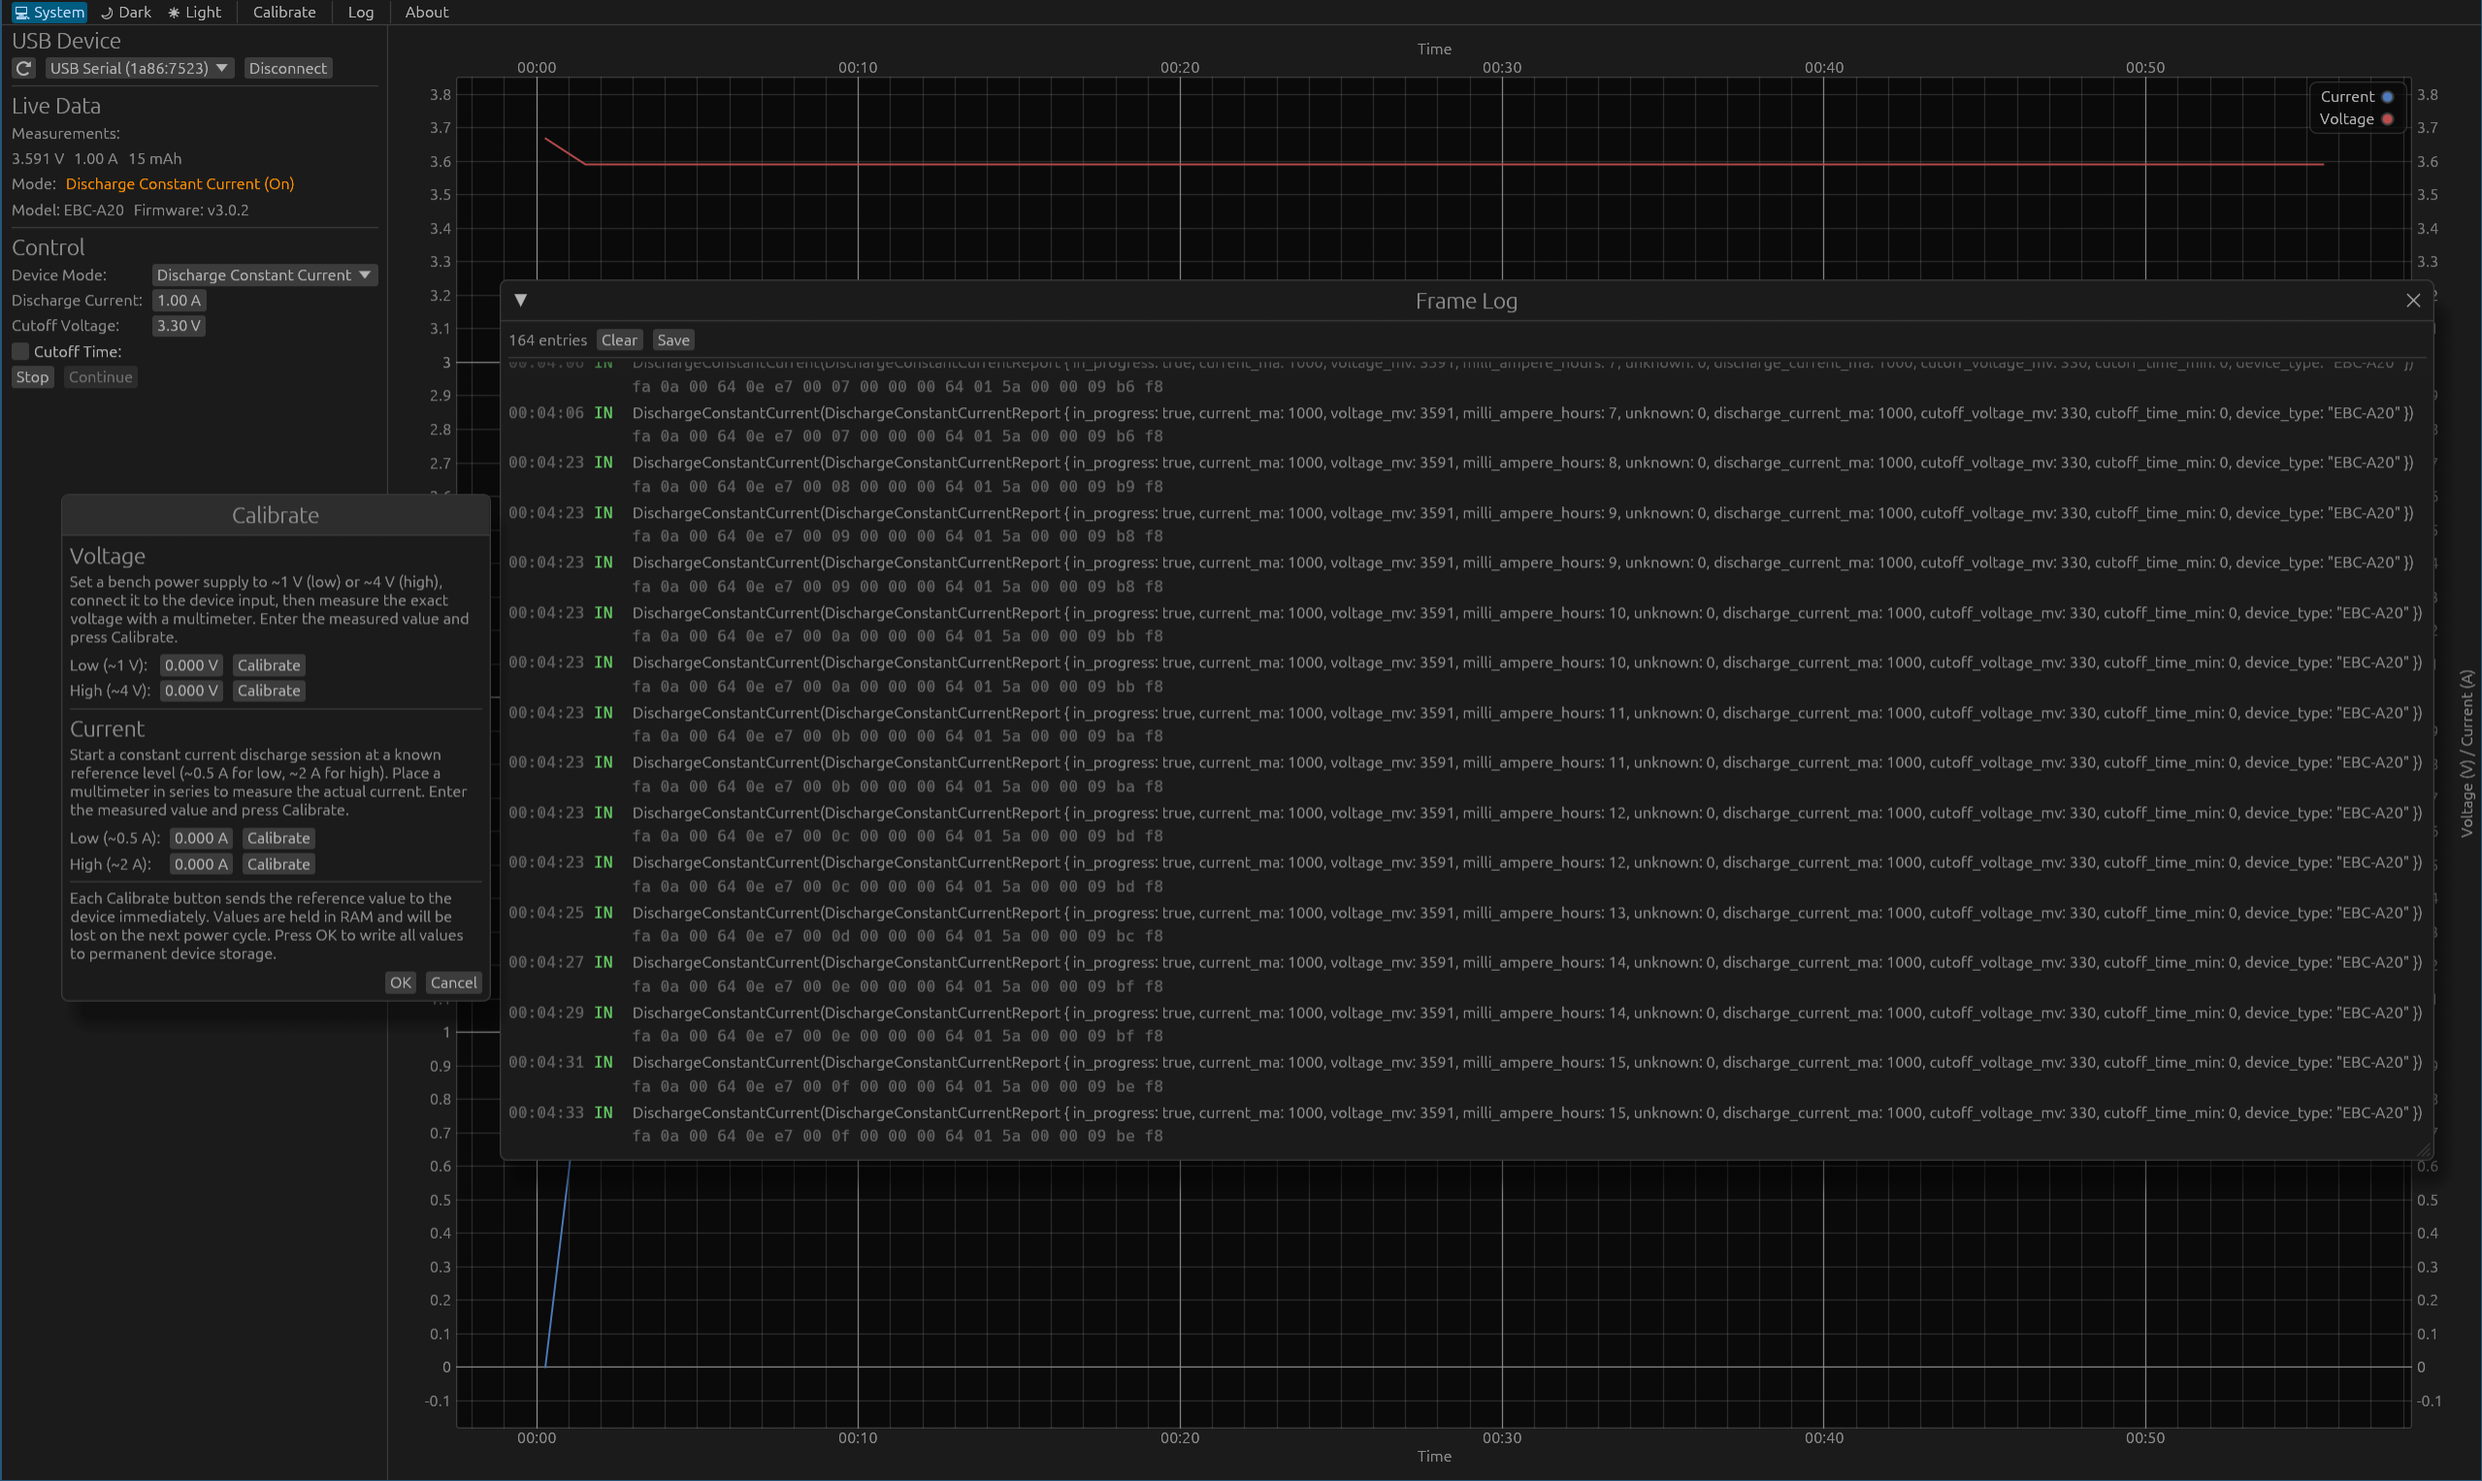
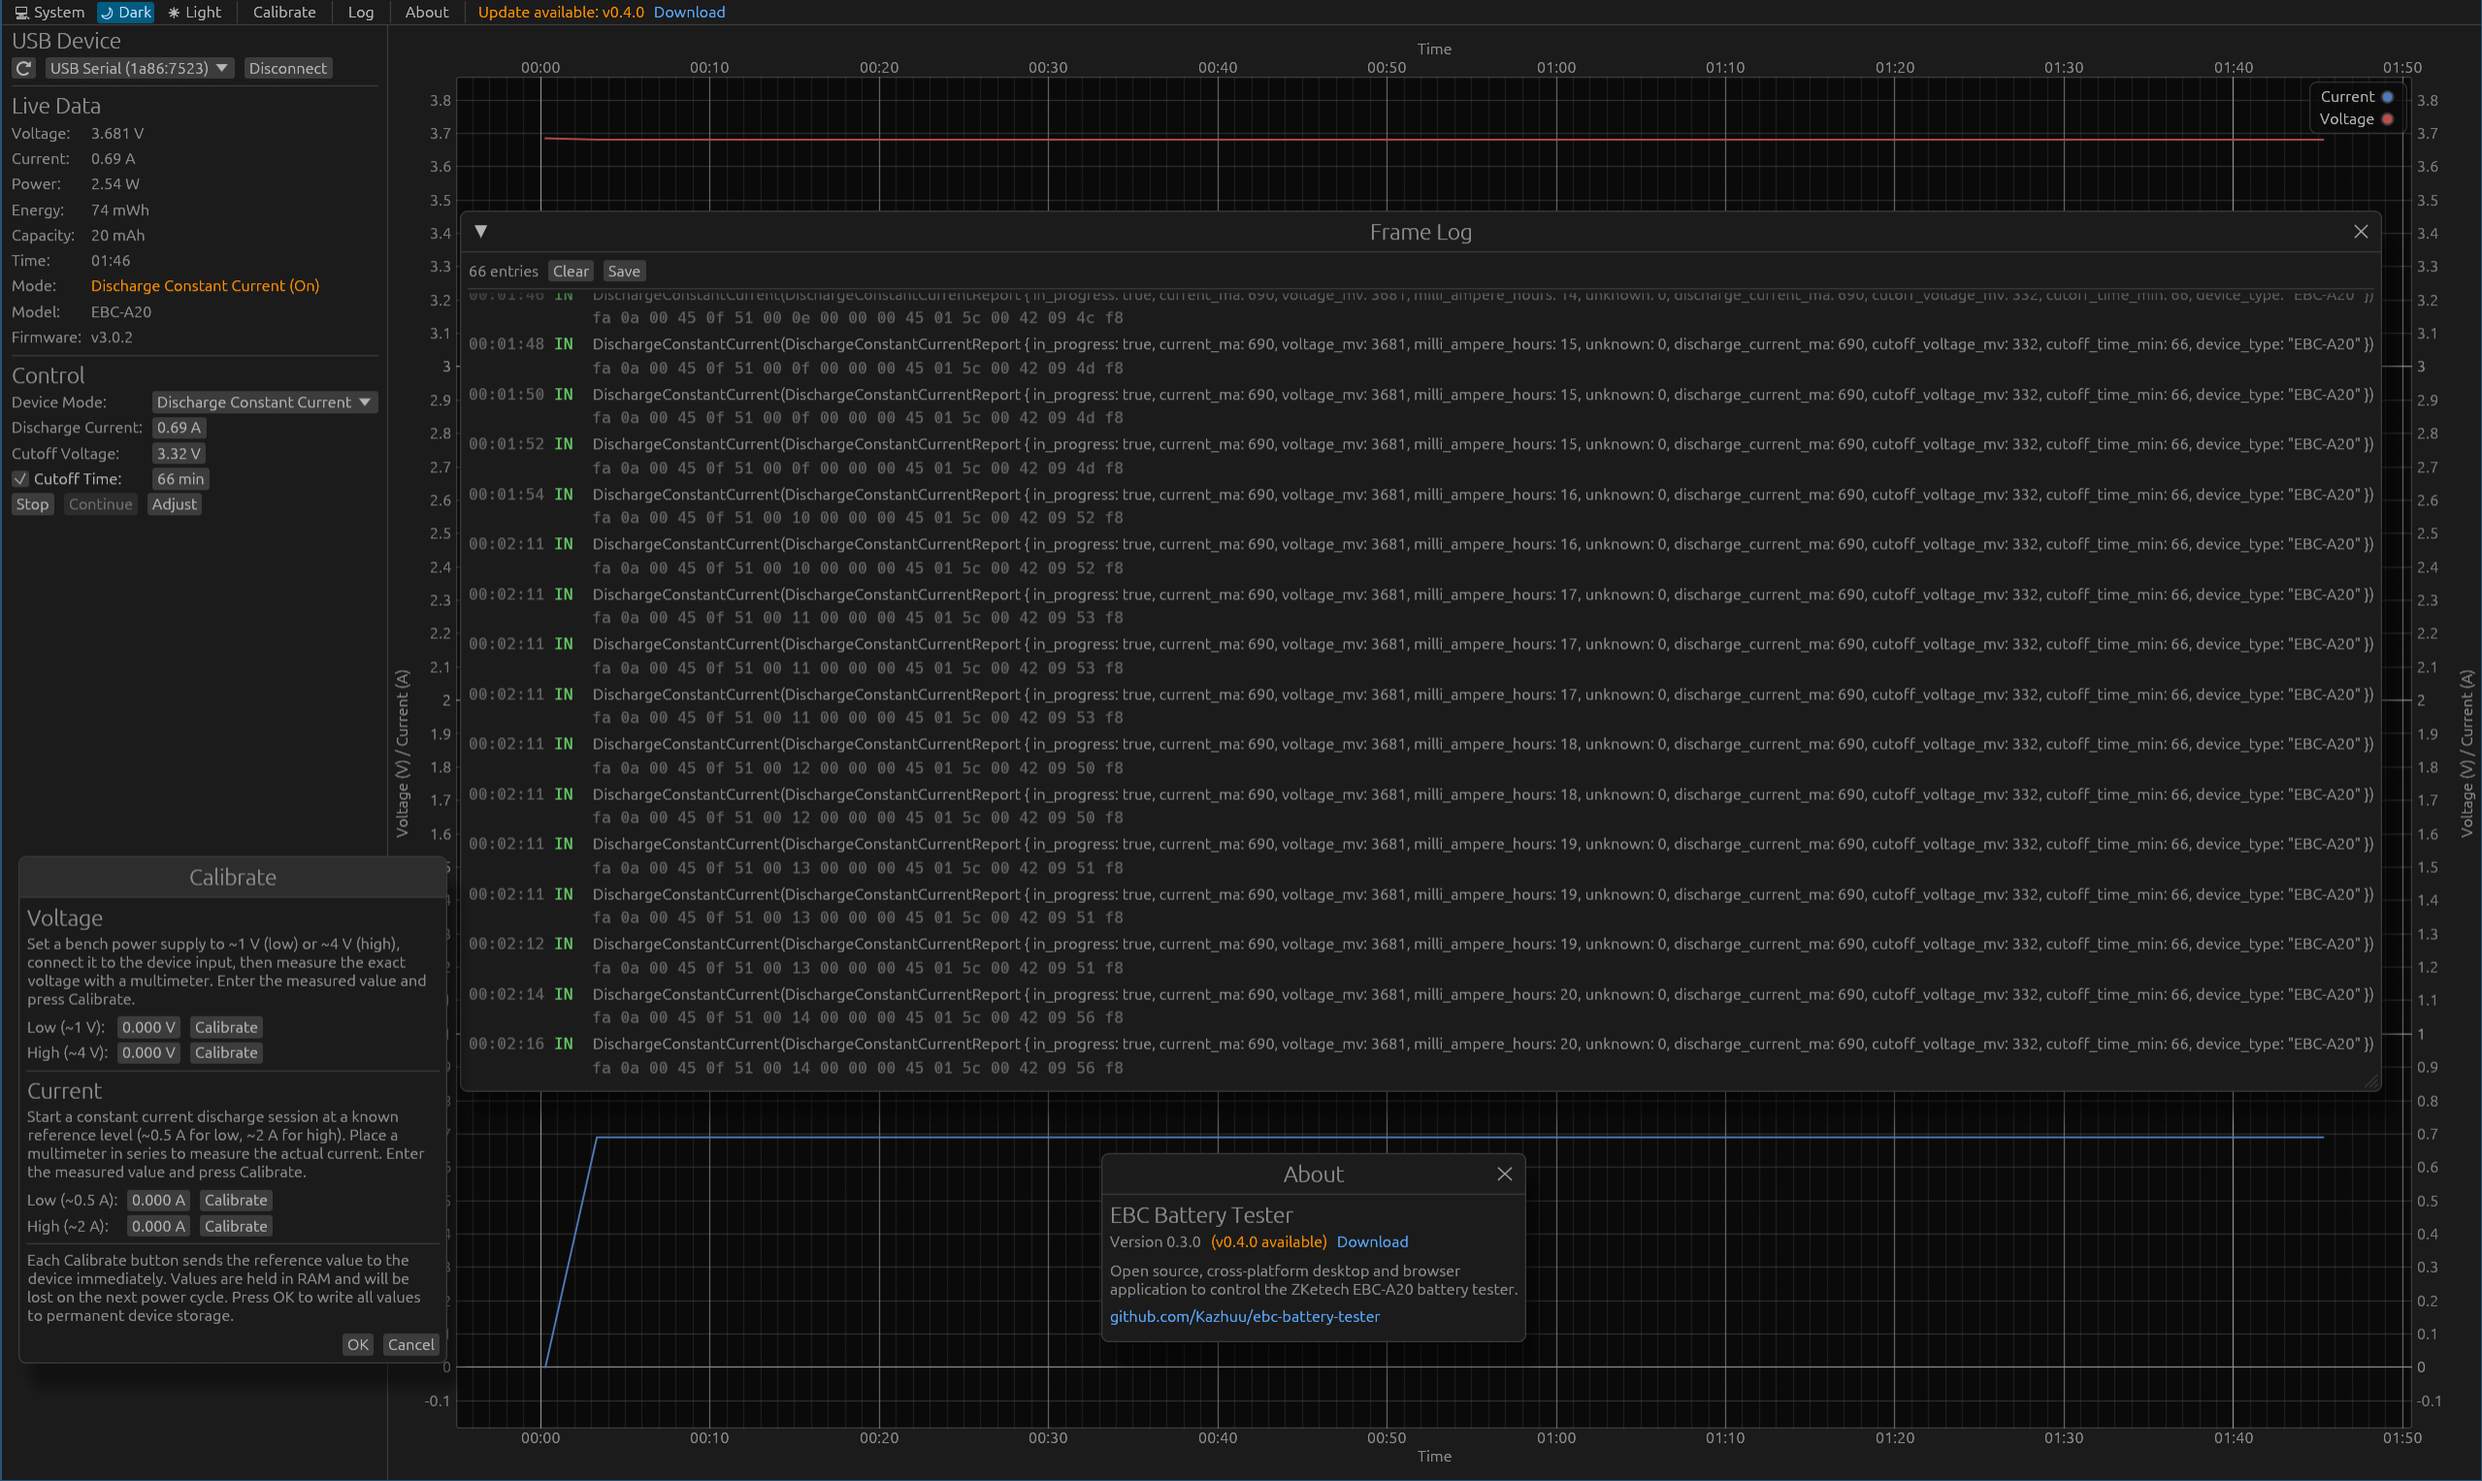
update app image and add a version check and inform user if newer version is available

diff --git a/src/app.rs b/src/app.rs
@@ -79,6 +79,12 @@ pub struct MainApp {
     mode_start_time: f64,
     #[serde(skip)]
     mode_accumulated_secs: f64,
+    #[cfg(not(target_arch = "wasm32"))]
+    #[serde(skip)]
+    update_check_state: crate::update_check::UpdateCheckState,
+    #[cfg(not(target_arch = "wasm32"))]
+    #[serde(skip)]
+    update_check_rx: UnboundedReceiver<crate::update_check::UpdateCheckState>,
 }
 
 impl Default for MainApp {
@@ -119,6 +125,10 @@ impl Default for MainApp {
             last_timer_sync_min: 0,
             mode_start_time: 0.0,
             mode_accumulated_secs: 0.0,
+            #[cfg(not(target_arch = "wasm32"))]
+            update_check_state: crate::update_check::UpdateCheckState::Checking,
+            #[cfg(not(target_arch = "wasm32"))]
+            update_check_rx: mpsc::unbounded().1,
         }
     }
 }
@@ -141,6 +151,12 @@ impl MainApp {
         app.cmd_tx = cmd_tx;
         app.event_rx = event_rx;
         app.event_tx = event_tx;
+        #[cfg(not(target_arch = "wasm32"))]
+        {
+            let (update_tx, update_rx) = mpsc::unbounded();
+            crate::update_check::spawn_update_check(cc.egui_ctx.clone(), update_tx);
+            app.update_check_rx = update_rx;
+        }
         app
     }
 
@@ -263,6 +279,10 @@ impl MainApp {
     }
 
     fn consume_events(&mut self, ctx: &egui::Context) {
+        #[cfg(not(target_arch = "wasm32"))]
+        while let Ok(state) = self.update_check_rx.try_recv() {
+            self.update_check_state = state;
+        }
         while let Ok(event) = self.event_rx.try_recv() {
             match event {
                 DeviceEvent::StatusChanged(status) => {
@@ -863,7 +883,32 @@ impl MainApp {
                 .resizable(false)
                 .show(ui.ctx(), |ui| {
                     ui.heading("EBC Battery Tester");
-                    ui.label(format!("Version {}", env!("CARGO_PKG_VERSION")));
+                    ui.horizontal(|ui| {
+                        ui.label(format!("Version {}", env!("CARGO_PKG_VERSION")));
+                        #[cfg(not(target_arch = "wasm32"))]
+                        {
+                            match &self.update_check_state {
+                                crate::update_check::UpdateCheckState::Checking => {
+                                    ui.spinner();
+                                    ui.weak("checking...");
+                                }
+                                crate::update_check::UpdateCheckState::UpToDate => {
+                                    ui.label("(up to date)");
+                                }
+                                crate::update_check::UpdateCheckState::UpdateAvailable(tag) => {
+                                    ui.colored_label(
+                                        ui.visuals().warn_fg_color,
+                                        format!("({tag} available)"),
+                                    );
+                                    ui.hyperlink_to(
+                                        "Download",
+                                        crate::update_check::RELEASES_PAGE_URL,
+                                    );
+                                }
+                                crate::update_check::UpdateCheckState::Failed => {}
+                            }
+                        }
+                    });
                     ui.add_space(4.0);
                     ui.label(
                         "Open source, cross-platform desktop and browser application to \
@@ -1103,6 +1148,29 @@ impl eframe::App for MainApp {
                 ui.separator();
                 if ui.button("About").clicked() {
                     self.open_about_window = true;
+                }
+                #[cfg(not(target_arch = "wasm32"))]
+                {
+                    match &self.update_check_state {
+                        crate::update_check::UpdateCheckState::Checking => {
+                            ui.separator();
+                            ui.spinner();
+                            ui.weak("Checking for updates...");
+                        }
+                        crate::update_check::UpdateCheckState::UpToDate => {
+                            ui.separator();
+                            ui.label(format!("v{} (up to date)", env!("CARGO_PKG_VERSION")));
+                        }
+                        crate::update_check::UpdateCheckState::UpdateAvailable(tag) => {
+                            ui.separator();
+                            ui.colored_label(
+                                ui.visuals().warn_fg_color,
+                                format!("Update available: {tag}"),
+                            );
+                            ui.hyperlink_to("Download", crate::update_check::RELEASES_PAGE_URL);
+                        }
+                        crate::update_check::UpdateCheckState::Failed => {}
+                    }
                 }
             });
         });

diff --git a/src/update_check.rs b/src/update_check.rs
@@ -1,0 +1,67 @@
+use futures::channel::mpsc::UnboundedSender;
+
+const RELEASES_API_URL: &str =
+    "https://api.github.com/repos/Kazhuu/ebc-battery-tester/releases/latest";
+
+pub const RELEASES_PAGE_URL: &str =
+    "https://github.com/Kazhuu/ebc-battery-tester/releases";
+
+#[derive(Debug, Clone)]
+pub enum UpdateCheckState {
+    Checking,
+    UpdateAvailable(String),
+    UpToDate,
+    Failed,
+}
+
+pub fn spawn_update_check(ctx: egui::Context, tx: UnboundedSender<UpdateCheckState>) {
+    std::thread::spawn(move || {
+        let state = match fetch_latest_tag() {
+            Ok(tag) => {
+                let latest = tag.trim_start_matches('v');
+                if is_newer(latest, env!("CARGO_PKG_VERSION")) {
+                    UpdateCheckState::UpdateAvailable(tag)
+                } else {
+                    UpdateCheckState::UpToDate
+                }
+            }
+            Err(_) => UpdateCheckState::Failed,
+        };
+        tx.unbounded_send(state).ok();
+        ctx.request_repaint();
+    });
+}
+
+#[derive(serde::Deserialize)]
+struct GitHubRelease {
+    tag_name: String,
+}
+
+fn fetch_latest_tag() -> Result<String, String> {
+    let release: GitHubRelease = ureq::get(RELEASES_API_URL)
+        .set(
+            "User-Agent",
+            &format!("ebc-battery-tester/{}", env!("CARGO_PKG_VERSION")),
+        )
+        .call()
+        .map_err(|e| e.to_string())?
+        .into_json()
+        .map_err(|e| e.to_string())?;
+    Ok(release.tag_name)
+}
+
+fn parse_version(s: &str) -> Option<(u32, u32, u32)> {
+    let mut it = s.splitn(3, '.');
+    Some((
+        it.next()?.parse().ok()?,
+        it.next()?.parse().ok()?,
+        it.next()?.parse().ok()?,
+    ))
+}
+
+fn is_newer(latest: &str, current: &str) -> bool {
+    match (parse_version(latest), parse_version(current)) {
+        (Some(l), Some(c)) => l > c,
+        _ => false,
+    }
+}

diff --git a/src/lib.rs b/src/lib.rs
@@ -6,6 +6,9 @@ mod usb;
 #[path = "usb_native.rs"]
 mod usb;
 
+#[cfg(not(target_arch = "wasm32"))]
+mod update_check;
+
 mod app;
 mod device;
 mod export;
